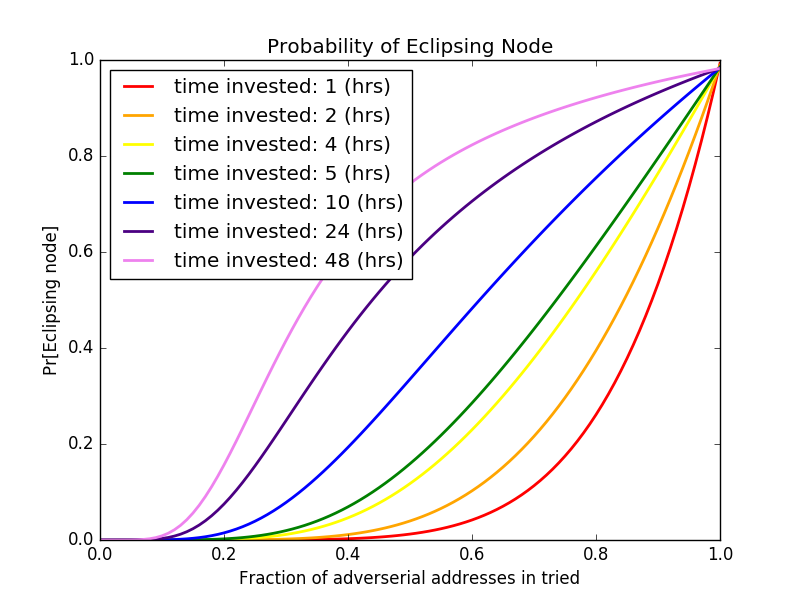
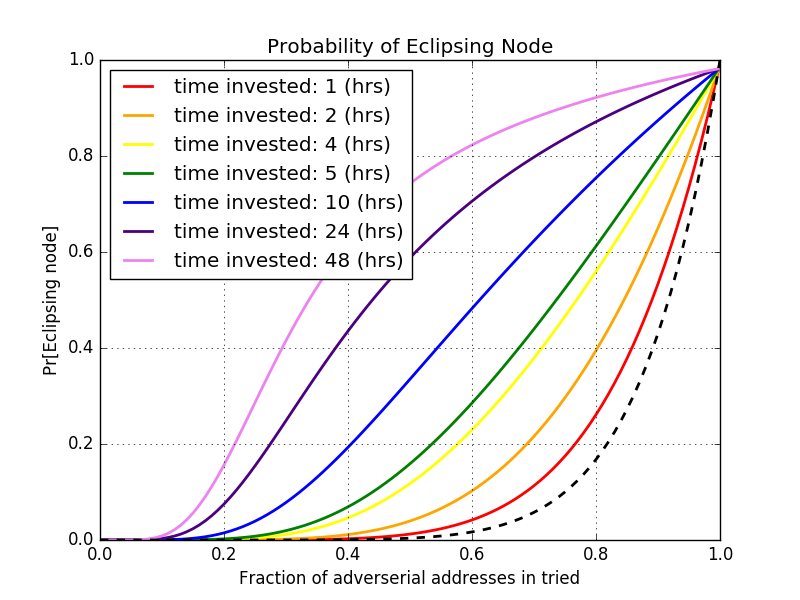
random selection, fig. 2

diff --git a/eclipse/figure2.py b/eclipse/figure2.py
@@ -11,16 +11,20 @@ f_values = [i / 100. for i in range(101)]
 colors = ('red', 'orange', 'yellow', 'green', 'blue', 'indigo', 'violet')
 tau_l_values = (1, 2, 4, 5, 10, 24, 48)
 lines = [[0 for j in f_values] for i in tau_l_values]
+random_select_line = [0 for i in f_values]
 f_prime = 8 / 64 ** 2
 
 for i, tau_l in enumerate(tau_l_values):
     for j, f in enumerate(f_values):
         lines[i][j] = eclipse.utils.q(f, f_prime, .45, tau_l, n=10) ** 8
+        random_select_line[j] = f ** 8
 
 plt.title('Probability of Eclipsing Node')
 plt.xlabel('Fraction of adverserial addresses in tried')
 plt.ylabel('Pr[Eclipsing node]')
 for i, line in enumerate(lines):
     plt.plot(f_values, line, color=colors[i], linewidth=2., label='time invested: %d (hrs)' % tau_l_values[i])
+plt.plot(f_values, random_select_line, color='black', linewidth=2., linestyle='--')
+plt.grid()
 plt.legend(loc='upper left')
 plt.savefig('../figures/figure-2.png')
